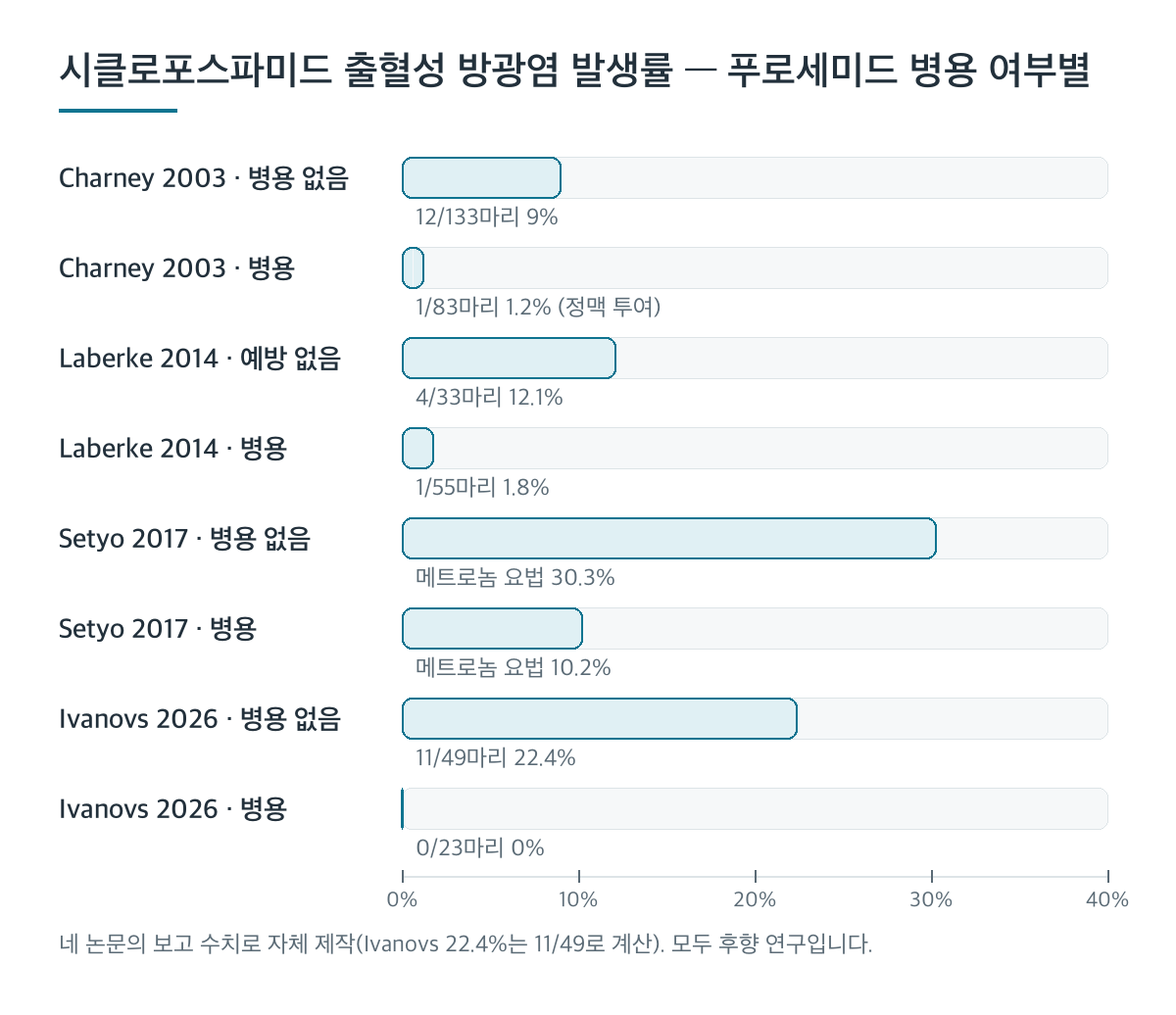
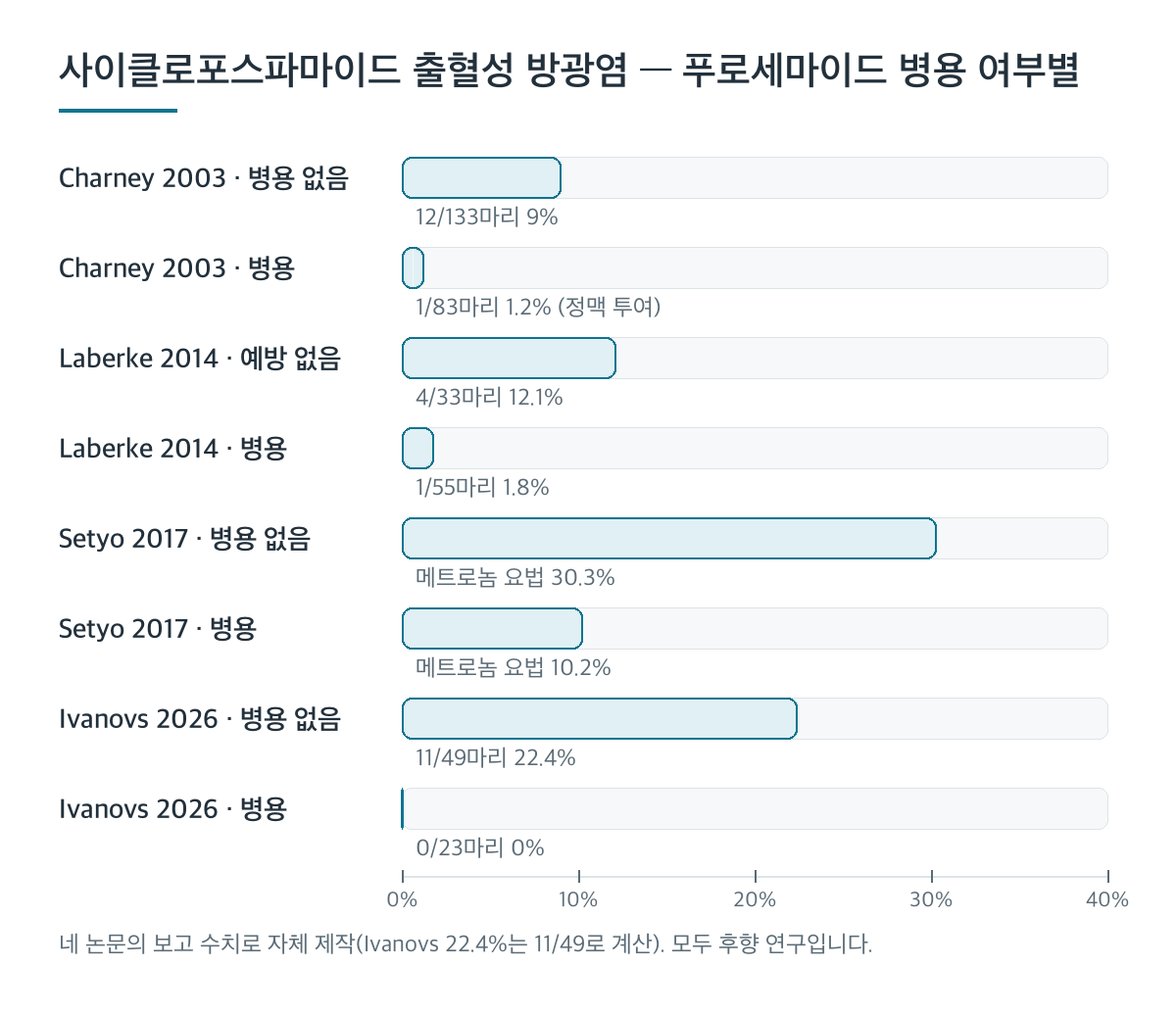
10-29 브리핑·네프 초안: 약품명 표기 통일 — 사이클로포스파마이드, 푸로세마이드 (본문·카드·캡션·블로그 그림)

Changed region(s): [[0.0617, 0.0309, 0.925, 0.0927]]

diff --git a/drafts/2026-10-29.html b/drafts/2026-10-29.html
@@ -44,10 +44,10 @@
     <button id="copyTitle" type="button">제목 복사</button>
     <button id="copyBody" class="secondary" type="button">본문 복사 (서식 유지)</button>
   </div>
-  <h1 id="title">항암약과 함께 이뇨제를 받아 오셨습니다 — 시클로포스파미드가 방광에 남기는 것, 그리고 푸로세미드 한 알</h1>
+  <h1 id="title">항암약과 함께 이뇨제를 받아 오셨습니다 — 사이클로포스파마이드가 방광에 남기는 것, 그리고 푸로세마이드 한 알</h1>
   <hr>
   <article id="body">
-<p>안녕하세요. 신장질환과 혈액투석, 응급중환자 진료를 하는 수의사 안운찬입니다.</p><p>오늘은 항암 치료 이야기를 조금 하려 합니다. 신장을 보는 수의사가 왜 항암제 글을 쓰나 싶으실 수 있습니다.</p><p>이유는 단순합니다. 오늘 다룰 부작용은 소변이 지나가는 길, 방광에서 생깁니다. 그리고 그것을 막는 방법으로 쓰이는 약이 제가 매일 다루는 이뇨제입니다.</p><h3>"항암약을 받았는데, 왜 이뇨제를 같이 주시나요?"</h3><p>림프종 같은 병으로 항암 치료를 시작하면 시클로포스파미드(cyclophosphamide)라는 약을 자주 쓰게 됩니다. 정맥으로도, 먹는 약으로도 줄 수 있어서 쓰임새가 넓습니다.</p><p>그런데 이 약과 함께 푸로세미드(furosemide), 흔히 '라식스'로 알려진 이뇨제를 받아 오시는 경우가 있습니다. 보호자 입장에서는 이런 질문이 자연스럽게 나옵니다.</p><p>"항암약만으로도 몸이 힘들 텐데, 소변까지 빼는 약을 왜 같이 먹이나요? 신장에 무리가 가지는 않나요?"</p><p>둘 다 좋은 질문입니다. 앞의 것부터 차례로 답해 보겠습니다.</p><h3>약이 남긴 찌꺼기가 방광 벽을 다치게 합니다</h3><p>시클로포스파미드는 먹거나 맞은 그대로는 효과가 없습니다. 간에서 대사되면서 암세포의 DNA를 공격하는 성분이 만들어지고, 그 과정에서 아크롤레인(acrolein)이라는 부산물이 함께 생깁니다.</p><p>아크롤레인은 항암 효과에는 기여하지 않습니다. 소변으로 빠져나가면서 방광 점막을 자극하고 손상시킵니다.</p><p>그 결과가 무균성 출혈성 방광염(sterile hemorrhagic cystitis)입니다. 소변에 피가 섞이고, 자주 마려워하면서 조금씩 보고, 힘을 줍니다. 겉으로는 흔한 세균성 방광염과 똑같아 보입니다.</p><p>하지만 이름 그대로 세균이 원인이 아닙니다. 항생제로 해결되는 방광염이 아니라는 뜻입니다.</p><p>정해진 치료법이 없고, 심한 경우 증상이 몇 주에서 몇 달까지 이어질 수 있습니다. 그래서 이 부작용은 생긴 뒤에 고치는 것보다 생기지 않게 하는 쪽에 무게가 실려 있습니다.</p><h3>이뇨제가 하는 일은 '희석'과 '비우기'입니다</h3><p>방광 점막이 다치는 정도는 결국 두 가지에 달려 있습니다. 아크롤레인이 얼마나 진하게, 얼마나 오래 방광에 머무느냐입니다.</p><p>이뇨제로 소변량을 늘리면 같은 양의 아크롤레인이 더 묽어지고, 방광이 더 자주 비워집니다. 물을 많이 마시게 하고 산책을 자주 시켜 소변을 자주 보게 하라는 당부도 같은 이유에서 나옵니다.</p><p>원리만 놓고 보면 그럴듯합니다. 실제 숫자는 어땠는지 보겠습니다.</p><h3>20년 넘게 쌓인 숫자들은 한 방향을 가리킵니다</h3><ul><li><b>Charney 등(2003, JAVMA)</b> — 림프종 개 216마리. 푸로세미드를 정맥으로 함께 주지 않은 133마리 중 12마리(9%), 함께 준 83마리 중 1마리(1.2%)에서 출혈성 방광염이 생겼습니다. 검토한 요인 가운데 위험을 의미 있게 높인 것은 면역매개성 질환 병력이었습니다.</li><li><b>Laberke 등(2014, Vet Rec)</b> — 림프종 개 131마리. 예방 조치가 없던 33마리에서 12.1%, 메스나(mesna)를 쓴 43마리에서 2.3%, 푸로세미드를 쓴 55마리에서 1.8%였습니다.</li><li><b>Setyo 등(2017, Vet Comp Oncol)</b> — 저용량 메트로놈 요법을 받은 개 115마리. 푸로세미드 없이 30.3%, 함께 먹인 경우 10.2%였습니다.</li><li><b>Chan 등(2016, JAVMA)</b> — 메트로놈 요법에 푸로세미드를 함께 먹인 55마리에서는 2마리(3.6%)였습니다. 투약 기간 중앙값은 272일이었습니다.</li><li><b>Iwaki 등(2022, JAAHA)</b> — 먹는 고용량 시클로포스파미드에 푸로세미드 약 1 mg/kg을 함께 준 81마리에서 2마리(2.46%)였습니다.</li></ul><img src="https://vet-briefing.vercel.app/drafts/img/2026-10-29-cyclophosphamide-shc.png" alt="네 연구의 출혈성 방광염 발생률을 푸로세미드 병용 여부로 나누어 비교한 막대그림"><p>위 그림은 네 연구의 보고 수치를 바탕으로 자체 제작한 그림입니다.</p><p>모두 무작위로 배정한 시험이 아니라 지난 기록을 거꾸로 훑은 연구입니다. 병원도, 시대도, 진단 기준도 조금씩 다릅니다. 숫자 하나하나를 그대로 비교하기는 어렵습니다.</p><p>그래도 방향은 한결같습니다. 함께 준 쪽이 매번 낮았습니다.</p><p>다른 길을 보여준 연구도 있습니다. Best와 Fry(2013, JAVMA)는 하루에 주던 고용량을 사흘에 나누어 먹였는데, 푸로세미드 없이도 57마리 중 한 마리도 출혈성 방광염이 생기지 않았습니다. '방광에 한꺼번에 몰리지 않게 한다'는 같은 원리로 이해해 볼 수 있는 결과입니다. 다만 한 기관의 57마리 기록을 과거 문헌과 비교한 것이라, 저자들도 추가 연구가 필요하다고 적었습니다.</p><h3>그런데 실제 동네 병원 처방에서는 어땠을까요</h3><p>오늘 이 글을 쓰게 된 논문은 올해 Journal of Veterinary Internal Medicine에 실린 영국 리버풀 대학의 연구입니다.</p><p>연구진은 영국 1차 동물병원들의 전자 진료기록망(SAVSNET)에서 2014년부터 2024년 3월까지 시클로포스파미드를 처방받은 개를 찾았습니다. 106마리가 검색됐고, 기록이 충분한 72마리를 분석했습니다. 여기에 더해 2차 진료 종양·내과 전문의 등 86명에게 설문을 돌려 '권장하는 것'과 '실제로 하는 것'을 나란히 놓았습니다.</p><table><tr><th>항목</th><th>1차 병원 기록 (72마리)</th></tr><tr><td>고용량 요법 / 메트로놈 계열</td><td>38마리(53%) / 34마리(47%)</td></tr><tr><td>푸로세미드 처방</td><td>전체 23마리(32%) — 고용량 53%, 메트로놈 계열 9%</td></tr><tr><td>출혈성 방광염 의심</td><td>11마리(15%), 모두 푸로세미드를 받지 않은 개</td></tr><tr><td>요법별 발생</td><td>고용량 2/38(5%), 메트로놈 계열 9/34(27%)</td></tr><tr><td>발생까지 걸린 시간(11마리 전체)</td><td>중앙값 102일(14~353일), 투약 횟수 중앙값 16회</td></tr><tr><td>설문(전문의 등): 푸로세미드 일상 병용 처방('항상'+'가끔')</td><td>고용량 88%, 메트로놈 55%</td></tr></table><p>푸로세미드를 받은 23마리에서는 출혈성 방광염 의심 사례가 한 건도 없었습니다. 증상이 생긴 11마리는 모두 이뇨제를 받지 않은 개였습니다.</p><p>제가 더 오래 본 숫자는 메트로놈 계열의 27%였습니다.</p><h3>저용량이라서 괜찮겠지, 가 가장 위험한 생각일 수 있습니다</h3><p>메트로놈 요법은 낮은 용량을 짧은 간격으로 오래 주는 방식입니다. 한 번에 들어가는 양이 적으니 방광 부작용도 덜할 것 같다는 생각이 들기 쉽습니다.</p><p>이 연구에서는 반대였습니다. 메트로놈 계열의 발생 비율이 고용량보다 높았고, 그런데도 이 군에서 푸로세미드를 받은 개는 34마리 중 3마리(9%)뿐이었습니다.</p><p>한 가지 짚어 둘 점이 있습니다. 이 연구의 메트로놈 계열 34마리 가운데 30마리는 매일 아주 적게 주는 엄밀한 의미의 메트로놈이 아니라, 중간 정도의 용량을 2~3일에서 1주 간격으로 준 경우였습니다. 증상이 생긴 9마리 중 7마리도 여기에 속했습니다. 저자들은 저용량 COP 같은 '중간 용량, 중간 간격' 요법에 발생이 몰렸다고 적었습니다.</p><p>증상이 생긴 11마리 전체로 보면, 첫 증상까지 중앙값 102일, 투약 16회가 걸렸습니다. 첫 몇 번의 투약을 무사히 넘겼다고 안심할 수 없다는 뜻입니다.</p><p>연구진은 메트로놈 계열에서 더 많이 생긴 이유를 방광이 아크롤레인에 오랫동안 반복해서 노출되기 때문으로 해석합니다. 총량뿐 아니라 주는 간격도 방광이 받는 부담을 바꿀 수 있다는 것입니다.</p><p>전문의들 사이에서도 메트로놈 요법에 이뇨제가 꼭 필요한지는 의견이 갈립니다. 설문에서 일상적으로 함께 처방한다는 답이 고용량에서는 88%였지만 메트로놈에서는 55%였습니다.</p><p>이 연구에도 한계는 분명합니다. 진단은 소변 속 피와 증상으로 내린 '의심' 수준이었고, 소변 배양 결과가 남아 있지 않았습니다. 처방 기록은 실제로 먹였는지까지 보여주지 않습니다. 이뇨제를 받은 개가 0마리였다는 결과도 저자들 스스로 확정이 아니라 가설을 세우는 단계로 읽어 달라고 썼습니다.</p><h3>그렇다면 신장은 괜찮을까요</h3><p>처음의 두 번째 질문으로 돌아가 보겠습니다. 이뇨제는 신장에 부담이 되지 않을까요.</p><p>이 논문에서도 저자들은 이뇨를 유도할 때 탈수, 저나트륨혈증, 신장 손상 같은 부작용 가능성을 함께 고려해야 한다고 적었습니다. 소변을 늘리는 약은 몸의 물을 빼는 약이기도 합니다.</p><p>그래서 저는 이 질문을 '이뇨제를 쓰느냐 마느냐'보다 '이 아이가 지금 물을 잃어도 되는 상태인가'로 바꿔서 생각하는 편입니다.</p><p>평소 잘 먹고 잘 마시는 아이라면 정해진 대로 먹이는 것이 방광을 지키는 길입니다. 반대로 항암 치료 중 구토나 설사로 물을 잘 못 마시는 날, 이미 신장 수치가 높다는 이야기를 들은 아이라면 이뇨제를 그대로 먹이기 전에 담당 수의사에게 먼저 상태를 알려 주시는 편이 좋겠습니다.</p><p>방광을 지키려다 신장을 놓쳐서도, 신장이 걱정돼 방광을 내버려 두어서도 안 됩니다. 둘 사이의 균형은 그날의 아이 상태를 보고 정해야 합니다.</p><h3>집에서 보호자께서 봐 주실 것</h3><ul><li>소변 색이 붉거나 분홍빛을 띠는지</li><li>소변을 자주 보려 하는데 양이 적은지, 자세를 잡고 오래 힘을 주는지</li><li>평소보다 물을 덜 마시거나, 구토·설사가 있는지</li></ul><p>소변에 피가 보인다고 모두 이 부작용인 것은 아닙니다. 세균성 방광염이나 결석도 똑같이 보일 수 있어서, 소변 검사로 구분하는 과정이 필요합니다.</p><p>영국 연구에서도 증상이 생긴 개들은 모두 시클로포스파미드를 중단했습니다. 다만 약을 멈출지, 다른 약으로 바꿀지는 항암 치료 전체의 계획과 함께 정해야 하는 문제이니, 집에서 임의로 끊기보다 먼저 연락을 주시기 바랍니다.</p><h3>작은 약 한 알의 이유를 알고 먹이시면 좋겠습니다</h3><p>항암 치료를 받는 아이의 보호자께서는 챙겨야 할 약이 많습니다. 그 가운데 이뇨제는 가장 눈에 띄지 않는 약일지 모릅니다.</p><p>하지만 그 한 알이 무엇을 막으려는 것인지 알고 나면, 오늘 왜 물그릇을 한 번 더 채우고 산책을 한 번 더 나가야 하는지도 함께 이해하시게 됩니다.</p><blockquote>항암제는 암을 겨냥하지만, 그 찌꺼기는 방광을 지나갑니다. 이뇨제는 그 길을 씻어 내는 약입니다.</blockquote><p>동료 수의사께는 메트로놈 요법의 숫자를 한 번 더 봐 주시기를 부탁드리고 싶습니다. 용량이 낮다는 것이 방광이 안전하다는 뜻은 아니었습니다.</p><p>읽어주셔서 감사합니다.</p><p>신장과 투석을 공부하는 수의사<br>안운찬 드림</p><h3>참고 문헌</h3><ul><li>Ivanovs A, MacKenzie C, Wardle Z, et al. Prophylactic strategies to reduce cyclophosphamide-induced sterile hemorrhagic cystitis in dogs: a first-opinion practice retrospective study and a referral survey. Journal of Veterinary Internal Medicine. 2026;40(5). doi:10.1093/jvimsj/aalag275</li><li>Charney SC, Bergman PJ, Hohenhaus AE, McKnight JA. Risk factors for sterile hemorrhagic cystitis in dogs with lymphoma receiving cyclophosphamide with or without concurrent administration of furosemide: 216 cases (1990-1996). Journal of the American Veterinary Medical Association. 2003;222(10):1388-1393.</li><li>Laberke S, Zenker I, Hirschberger J. Mesna and furosemide for prevention of cyclophosphamide-induced sterile haemorrhagic cystitis in dogs — a retrospective study. Veterinary Record. 2014;174(10):250.</li><li>Setyo L, Ma M, Bunn T, Wyatt K, Wang P. Furosemide for prevention of cyclophosphamide-associated sterile haemorrhagic cystitis in dogs receiving metronomic low-dose oral cyclophosphamide. Veterinary and Comparative Oncology. 2017;15(4):1468-1478.</li><li>Chan CM, Frimberger AE, Moore AS. Incidence of sterile hemorrhagic cystitis in tumor-bearing dogs concurrently treated with oral metronomic cyclophosphamide chemotherapy and furosemide: 55 cases (2009-2015). Journal of the American Veterinary Medical Association. 2016;249(12):1408-1414.</li><li>Iwaki Y, Gagnon J, MacDonald-Dickinson V. Incidence of sterile hemorrhagic cystitis in dogs treated with cyclophosphamide and low-dose furosemide. Journal of the American Animal Hospital Association. 2022;58(2):85-90.</li><li>Best MP, Fry DR. Incidence of sterile hemorrhagic cystitis in dogs receiving cyclophosphamide orally for three days without concurrent furosemide as part of a chemotherapeutic treatment for lymphoma: 57 cases (2007-2012). Journal of the American Veterinary Medical Association. 2013;243(7):1025-1029.</li></ul>
+<p>안녕하세요. 신장질환과 혈액투석, 응급중환자 진료를 하는 수의사 안운찬입니다.</p><p>오늘은 항암 치료 이야기를 조금 하려 합니다. 신장을 보는 수의사가 왜 항암제 글을 쓰나 싶으실 수 있습니다.</p><p>이유는 단순합니다. 오늘 다룰 부작용은 소변이 지나가는 길, 방광에서 생깁니다. 그리고 그것을 막는 방법으로 쓰이는 약이 제가 매일 다루는 이뇨제입니다.</p><h3>"항암약을 받았는데, 왜 이뇨제를 같이 주시나요?"</h3><p>림프종 같은 병으로 항암 치료를 시작하면 사이클로포스파마이드(cyclophosphamide)라는 약을 자주 쓰게 됩니다. 정맥으로도, 먹는 약으로도 줄 수 있어서 쓰임새가 넓습니다.</p><p>그런데 이 약과 함께 푸로세마이드(furosemide), 흔히 '라식스'로 알려진 이뇨제를 받아 오시는 경우가 있습니다. 보호자 입장에서는 이런 질문이 자연스럽게 나옵니다.</p><p>"항암약만으로도 몸이 힘들 텐데, 소변까지 빼는 약을 왜 같이 먹이나요? 신장에 무리가 가지는 않나요?"</p><p>둘 다 좋은 질문입니다. 앞의 것부터 차례로 답해 보겠습니다.</p><h3>약이 남긴 찌꺼기가 방광 벽을 다치게 합니다</h3><p>사이클로포스파마이드는 먹거나 맞은 그대로는 효과가 없습니다. 간에서 대사되면서 암세포의 DNA를 공격하는 성분이 만들어지고, 그 과정에서 아크롤레인(acrolein)이라는 부산물이 함께 생깁니다.</p><p>아크롤레인은 항암 효과에는 기여하지 않습니다. 소변으로 빠져나가면서 방광 점막을 자극하고 손상시킵니다.</p><p>그 결과가 무균성 출혈성 방광염(sterile hemorrhagic cystitis)입니다. 소변에 피가 섞이고, 자주 마려워하면서 조금씩 보고, 힘을 줍니다. 겉으로는 흔한 세균성 방광염과 똑같아 보입니다.</p><p>하지만 이름 그대로 세균이 원인이 아닙니다. 항생제로 해결되는 방광염이 아니라는 뜻입니다.</p><p>정해진 치료법이 없고, 심한 경우 증상이 몇 주에서 몇 달까지 이어질 수 있습니다. 그래서 이 부작용은 생긴 뒤에 고치는 것보다 생기지 않게 하는 쪽에 무게가 실려 있습니다.</p><h3>이뇨제가 하는 일은 '희석'과 '비우기'입니다</h3><p>방광 점막이 다치는 정도는 결국 두 가지에 달려 있습니다. 아크롤레인이 얼마나 진하게, 얼마나 오래 방광에 머무느냐입니다.</p><p>이뇨제로 소변량을 늘리면 같은 양의 아크롤레인이 더 묽어지고, 방광이 더 자주 비워집니다. 물을 많이 마시게 하고 산책을 자주 시켜 소변을 자주 보게 하라는 당부도 같은 이유에서 나옵니다.</p><p>원리만 놓고 보면 그럴듯합니다. 실제 숫자는 어땠는지 보겠습니다.</p><h3>20년 넘게 쌓인 숫자들은 한 방향을 가리킵니다</h3><ul><li><b>Charney 등(2003, JAVMA)</b> — 림프종 개 216마리. 푸로세마이드를 정맥으로 함께 주지 않은 133마리 중 12마리(9%), 함께 준 83마리 중 1마리(1.2%)에서 출혈성 방광염이 생겼습니다. 검토한 요인 가운데 위험을 의미 있게 높인 것은 면역매개성 질환 병력이었습니다.</li><li><b>Laberke 등(2014, Vet Rec)</b> — 림프종 개 131마리. 예방 조치가 없던 33마리에서 12.1%, 메스나(mesna)를 쓴 43마리에서 2.3%, 푸로세마이드를 쓴 55마리에서 1.8%였습니다.</li><li><b>Setyo 등(2017, Vet Comp Oncol)</b> — 저용량 메트로놈 요법을 받은 개 115마리. 푸로세마이드 없이 30.3%, 함께 먹인 경우 10.2%였습니다.</li><li><b>Chan 등(2016, JAVMA)</b> — 메트로놈 요법에 푸로세마이드를 함께 먹인 55마리에서는 2마리(3.6%)였습니다. 투약 기간 중앙값은 272일이었습니다.</li><li><b>Iwaki 등(2022, JAAHA)</b> — 먹는 고용량 사이클로포스파마이드에 푸로세마이드 약 1 mg/kg을 함께 준 81마리에서 2마리(2.46%)였습니다.</li></ul><img src="https://vet-briefing.vercel.app/drafts/img/2026-10-29-cyclophosphamide-shc.png" alt="네 연구의 출혈성 방광염 발생률을 푸로세마이드 병용 여부로 나누어 비교한 막대그림"><p>위 그림은 네 연구의 보고 수치를 바탕으로 자체 제작한 그림입니다.</p><p>모두 무작위로 배정한 시험이 아니라 지난 기록을 거꾸로 훑은 연구입니다. 병원도, 시대도, 진단 기준도 조금씩 다릅니다. 숫자 하나하나를 그대로 비교하기는 어렵습니다.</p><p>그래도 방향은 한결같습니다. 함께 준 쪽이 매번 낮았습니다.</p><p>다른 길을 보여준 연구도 있습니다. Best와 Fry(2013, JAVMA)는 하루에 주던 고용량을 사흘에 나누어 먹였는데, 푸로세마이드 없이도 57마리 중 한 마리도 출혈성 방광염이 생기지 않았습니다. '방광에 한꺼번에 몰리지 않게 한다'는 같은 원리로 이해해 볼 수 있는 결과입니다. 다만 한 기관의 57마리 기록을 과거 문헌과 비교한 것이라, 저자들도 추가 연구가 필요하다고 적었습니다.</p><h3>그런데 실제 동네 병원 처방에서는 어땠을까요</h3><p>오늘 이 글을 쓰게 된 논문은 올해 Journal of Veterinary Internal Medicine에 실린 영국 리버풀 대학의 연구입니다.</p><p>연구진은 영국 1차 동물병원들의 전자 진료기록망(SAVSNET)에서 2014년부터 2024년 3월까지 사이클로포스파마이드를 처방받은 개를 찾았습니다. 106마리가 검색됐고, 기록이 충분한 72마리를 분석했습니다. 여기에 더해 2차 진료 종양·내과 전문의 등 86명에게 설문을 돌려 '권장하는 것'과 '실제로 하는 것'을 나란히 놓았습니다.</p><table><tr><th>항목</th><th>1차 병원 기록 (72마리)</th></tr><tr><td>고용량 요법 / 메트로놈 계열</td><td>38마리(53%) / 34마리(47%)</td></tr><tr><td>푸로세마이드 처방</td><td>전체 23마리(32%) — 고용량 53%, 메트로놈 계열 9%</td></tr><tr><td>출혈성 방광염 의심</td><td>11마리(15%), 모두 푸로세마이드를 받지 않은 개</td></tr><tr><td>요법별 발생</td><td>고용량 2/38(5%), 메트로놈 계열 9/34(27%)</td></tr><tr><td>발생까지 걸린 시간(11마리 전체)</td><td>중앙값 102일(14~353일), 투약 횟수 중앙값 16회</td></tr><tr><td>설문(전문의 등): 푸로세마이드 일상 병용 처방('항상'+'가끔')</td><td>고용량 88%, 메트로놈 55%</td></tr></table><p>푸로세마이드를 받은 23마리에서는 출혈성 방광염 의심 사례가 한 건도 없었습니다. 증상이 생긴 11마리는 모두 이뇨제를 받지 않은 개였습니다.</p><p>제가 더 오래 본 숫자는 메트로놈 계열의 27%였습니다.</p><h3>저용량이라서 괜찮겠지, 가 가장 위험한 생각일 수 있습니다</h3><p>메트로놈 요법은 낮은 용량을 짧은 간격으로 오래 주는 방식입니다. 한 번에 들어가는 양이 적으니 방광 부작용도 덜할 것 같다는 생각이 들기 쉽습니다.</p><p>이 연구에서는 반대였습니다. 메트로놈 계열의 발생 비율이 고용량보다 높았고, 그런데도 이 군에서 푸로세마이드를 받은 개는 34마리 중 3마리(9%)뿐이었습니다.</p><p>한 가지 짚어 둘 점이 있습니다. 이 연구의 메트로놈 계열 34마리 가운데 30마리는 매일 아주 적게 주는 엄밀한 의미의 메트로놈이 아니라, 중간 정도의 용량을 2~3일에서 1주 간격으로 준 경우였습니다. 증상이 생긴 9마리 중 7마리도 여기에 속했습니다. 저자들은 저용량 COP 같은 '중간 용량, 중간 간격' 요법에 발생이 몰렸다고 적었습니다.</p><p>증상이 생긴 11마리 전체로 보면, 첫 증상까지 중앙값 102일, 투약 16회가 걸렸습니다. 첫 몇 번의 투약을 무사히 넘겼다고 안심할 수 없다는 뜻입니다.</p><p>연구진은 메트로놈 계열에서 더 많이 생긴 이유를 방광이 아크롤레인에 오랫동안 반복해서 노출되기 때문으로 해석합니다. 총량뿐 아니라 주는 간격도 방광이 받는 부담을 바꿀 수 있다는 것입니다.</p><p>전문의들 사이에서도 메트로놈 요법에 이뇨제가 꼭 필요한지는 의견이 갈립니다. 설문에서 일상적으로 함께 처방한다는 답이 고용량에서는 88%였지만 메트로놈에서는 55%였습니다.</p><p>이 연구에도 한계는 분명합니다. 진단은 소변 속 피와 증상으로 내린 '의심' 수준이었고, 소변 배양 결과가 남아 있지 않았습니다. 처방 기록은 실제로 먹였는지까지 보여주지 않습니다. 이뇨제를 받은 개가 0마리였다는 결과도 저자들 스스로 확정이 아니라 가설을 세우는 단계로 읽어 달라고 썼습니다.</p><h3>그렇다면 신장은 괜찮을까요</h3><p>처음의 두 번째 질문으로 돌아가 보겠습니다. 이뇨제는 신장에 부담이 되지 않을까요.</p><p>이 논문에서도 저자들은 이뇨를 유도할 때 탈수, 저나트륨혈증, 신장 손상 같은 부작용 가능성을 함께 고려해야 한다고 적었습니다. 소변을 늘리는 약은 몸의 물을 빼는 약이기도 합니다.</p><p>그래서 저는 이 질문을 '이뇨제를 쓰느냐 마느냐'보다 '이 아이가 지금 물을 잃어도 되는 상태인가'로 바꿔서 생각하는 편입니다.</p><p>평소 잘 먹고 잘 마시는 아이라면 정해진 대로 먹이는 것이 방광을 지키는 길입니다. 반대로 항암 치료 중 구토나 설사로 물을 잘 못 마시는 날, 이미 신장 수치가 높다는 이야기를 들은 아이라면 이뇨제를 그대로 먹이기 전에 담당 수의사에게 먼저 상태를 알려 주시는 편이 좋겠습니다.</p><p>방광을 지키려다 신장을 놓쳐서도, 신장이 걱정돼 방광을 내버려 두어서도 안 됩니다. 둘 사이의 균형은 그날의 아이 상태를 보고 정해야 합니다.</p><h3>집에서 보호자께서 봐 주실 것</h3><ul><li>소변 색이 붉거나 분홍빛을 띠는지</li><li>소변을 자주 보려 하는데 양이 적은지, 자세를 잡고 오래 힘을 주는지</li><li>평소보다 물을 덜 마시거나, 구토·설사가 있는지</li></ul><p>소변에 피가 보인다고 모두 이 부작용인 것은 아닙니다. 세균성 방광염이나 결석도 똑같이 보일 수 있어서, 소변 검사로 구분하는 과정이 필요합니다.</p><p>영국 연구에서도 증상이 생긴 개들은 모두 사이클로포스파마이드를 중단했습니다. 다만 약을 멈출지, 다른 약으로 바꿀지는 항암 치료 전체의 계획과 함께 정해야 하는 문제이니, 집에서 임의로 끊기보다 먼저 연락을 주시기 바랍니다.</p><h3>작은 약 한 알의 이유를 알고 먹이시면 좋겠습니다</h3><p>항암 치료를 받는 아이의 보호자께서는 챙겨야 할 약이 많습니다. 그 가운데 이뇨제는 가장 눈에 띄지 않는 약일지 모릅니다.</p><p>하지만 그 한 알이 무엇을 막으려는 것인지 알고 나면, 오늘 왜 물그릇을 한 번 더 채우고 산책을 한 번 더 나가야 하는지도 함께 이해하시게 됩니다.</p><blockquote>항암제는 암을 겨냥하지만, 그 찌꺼기는 방광을 지나갑니다. 이뇨제는 그 길을 씻어 내는 약입니다.</blockquote><p>동료 수의사께는 메트로놈 요법의 숫자를 한 번 더 봐 주시기를 부탁드리고 싶습니다. 용량이 낮다는 것이 방광이 안전하다는 뜻은 아니었습니다.</p><p>읽어주셔서 감사합니다.</p><p>신장과 투석을 공부하는 수의사<br>안운찬 드림</p><h3>참고 문헌</h3><ul><li>Ivanovs A, MacKenzie C, Wardle Z, et al. Prophylactic strategies to reduce cyclophosphamide-induced sterile hemorrhagic cystitis in dogs: a first-opinion practice retrospective study and a referral survey. Journal of Veterinary Internal Medicine. 2026;40(5). doi:10.1093/jvimsj/aalag275</li><li>Charney SC, Bergman PJ, Hohenhaus AE, McKnight JA. Risk factors for sterile hemorrhagic cystitis in dogs with lymphoma receiving cyclophosphamide with or without concurrent administration of furosemide: 216 cases (1990-1996). Journal of the American Veterinary Medical Association. 2003;222(10):1388-1393.</li><li>Laberke S, Zenker I, Hirschberger J. Mesna and furosemide for prevention of cyclophosphamide-induced sterile haemorrhagic cystitis in dogs — a retrospective study. Veterinary Record. 2014;174(10):250.</li><li>Setyo L, Ma M, Bunn T, Wyatt K, Wang P. Furosemide for prevention of cyclophosphamide-associated sterile haemorrhagic cystitis in dogs receiving metronomic low-dose oral cyclophosphamide. Veterinary and Comparative Oncology. 2017;15(4):1468-1478.</li><li>Chan CM, Frimberger AE, Moore AS. Incidence of sterile hemorrhagic cystitis in tumor-bearing dogs concurrently treated with oral metronomic cyclophosphamide chemotherapy and furosemide: 55 cases (2009-2015). Journal of the American Veterinary Medical Association. 2016;249(12):1408-1414.</li><li>Iwaki Y, Gagnon J, MacDonald-Dickinson V. Incidence of sterile hemorrhagic cystitis in dogs treated with cyclophosphamide and low-dose furosemide. Journal of the American Animal Hospital Association. 2022;58(2):85-90.</li><li>Best MP, Fry DR. Incidence of sterile hemorrhagic cystitis in dogs receiving cyclophosphamide orally for three days without concurrent furosemide as part of a chemotherapeutic treatment for lymphoma: 57 cases (2007-2012). Journal of the American Veterinary Medical Association. 2013;243(7):1025-1029.</li></ul>
 <p><b>개인 홈페이지</b><br><a href="https://www.ahnwoonchan.com/">https://www.ahnwoonchan.com/</a></p>
 <p>※ 이 글은 동물의 신장질환과 혈액투석에 관한 일반적인 정보를 전달하기 위한 글입니다. 개별 환자의 치료 필요성과 예후는 검사 결과와 전신 상태를 종합하여 담당 수의사와 상담해 판단해야 합니다.</p>
   </article>
